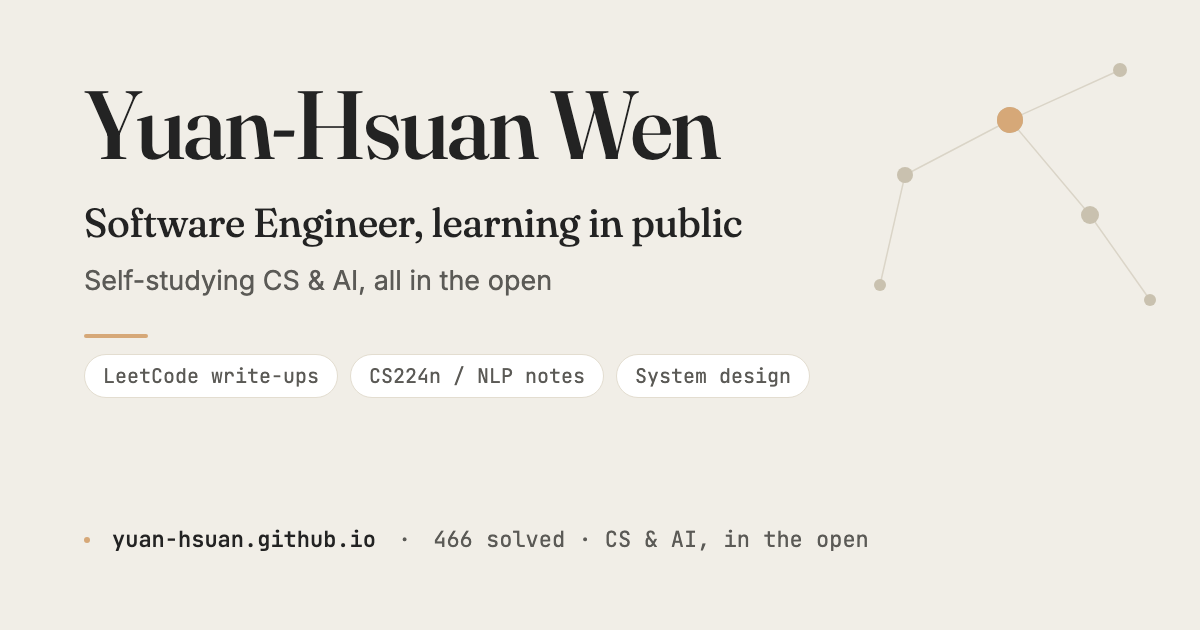
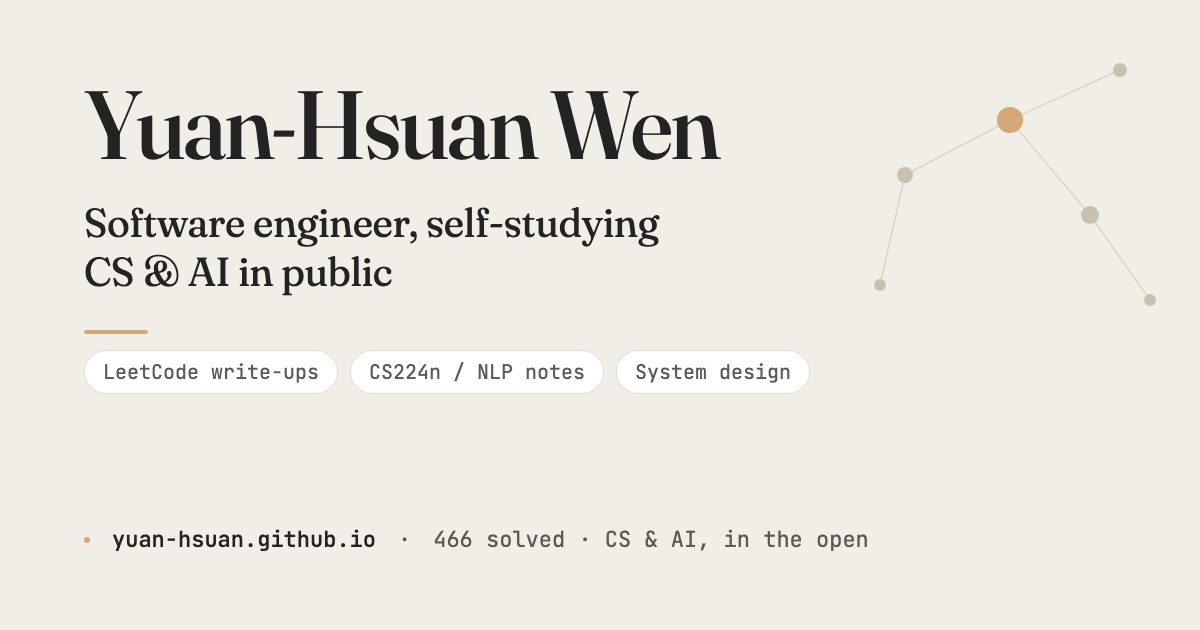
site: refine OG card positioning line to one clean sentence
"Software engineer, self-studying CS & AI in public" — drops the
redundant "learning in public" + "all in the open" doubling.

diff --git a/site/og-image.html b/site/og-image.html
@@ -51,8 +51,7 @@
 
   <div>
     <div class="name">Yuan-Hsuan Wen</div>
-    <div class="head">Software Engineer, learning in public</div>
-    <div class="blurb">Self-studying CS &amp; AI, all in the open</div>
+    <div class="head">Software engineer, self-studying<br>CS &amp; AI in public</div>
     <div class="rule"></div>
     <div class="tags">
       <span class="tag">LeetCode write-ups</span>
